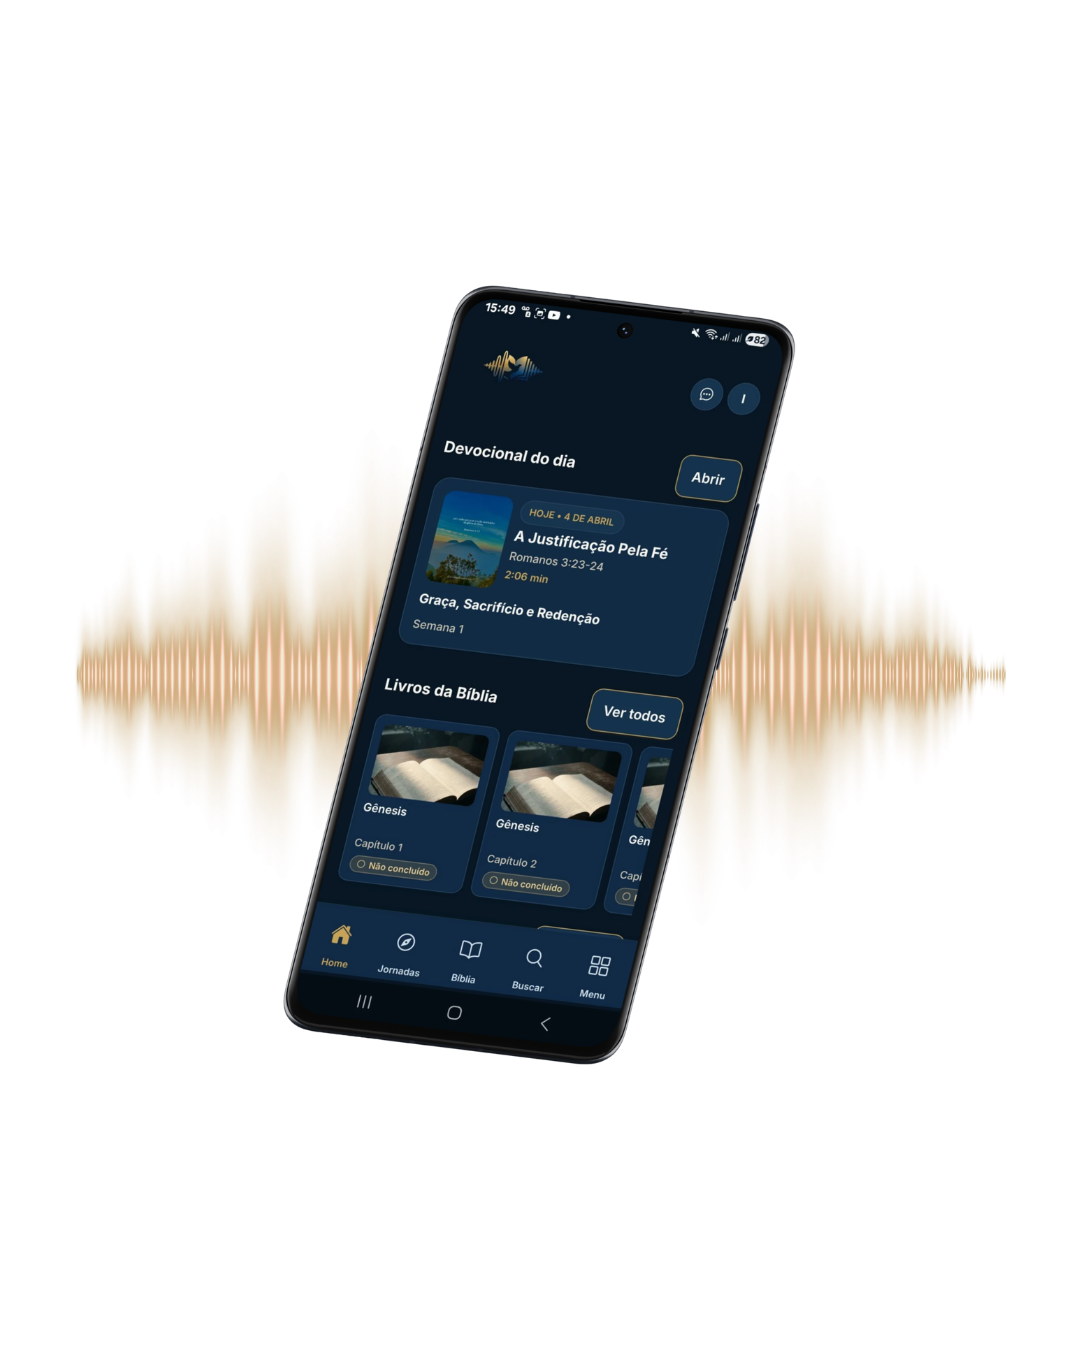
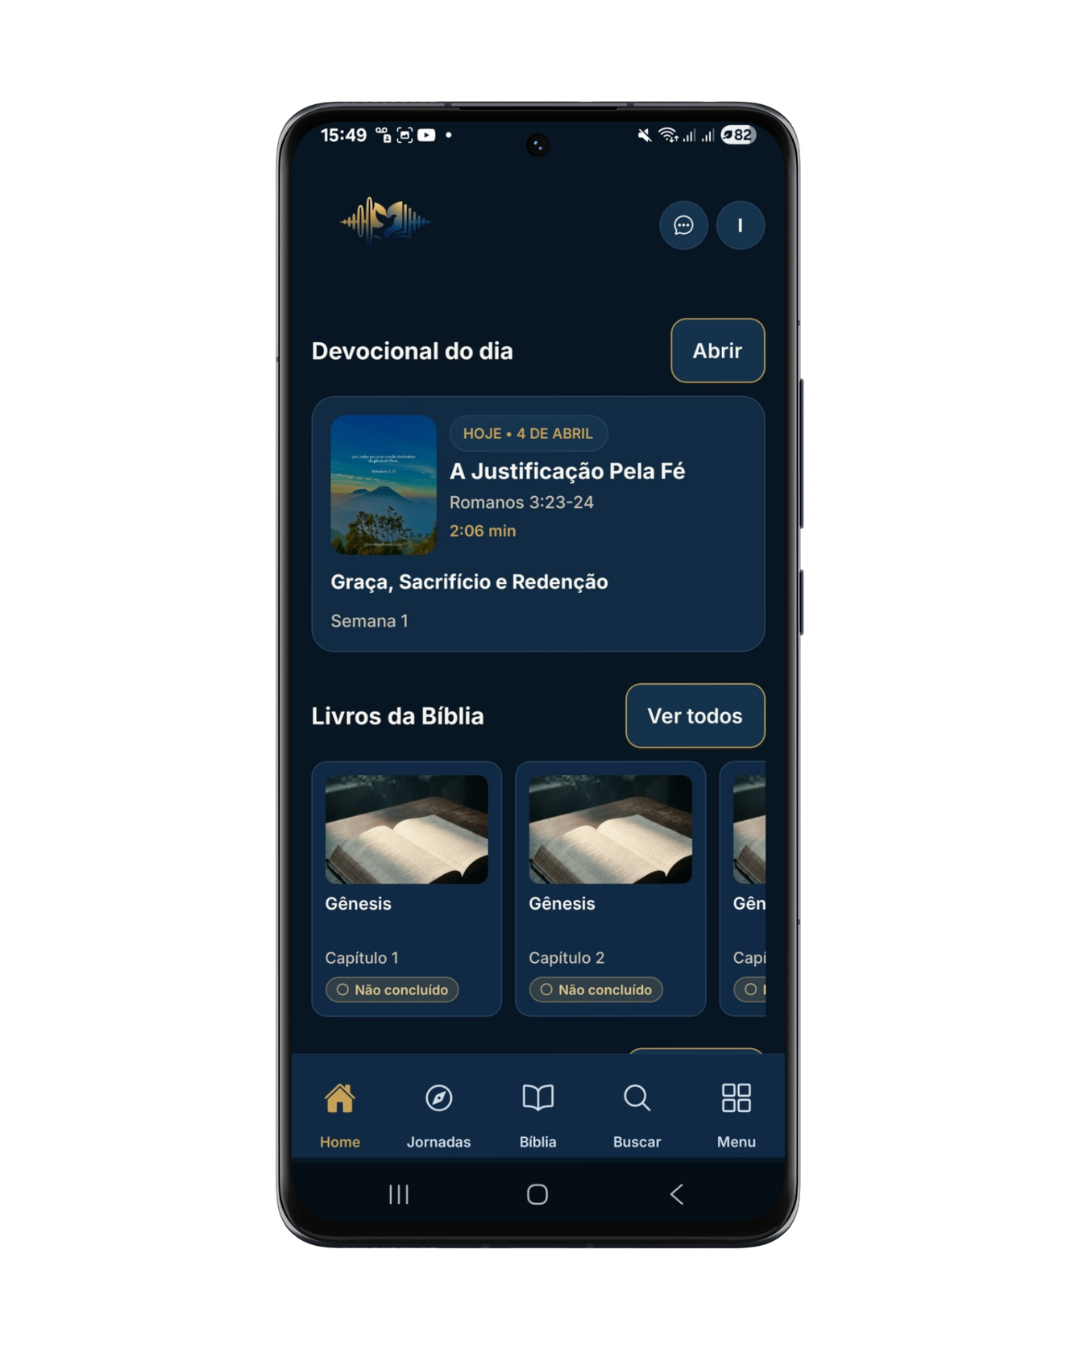
Improve landing page app download CTAs

diff --git a/app/page.tsx b/app/page.tsx
@@ -3,13 +3,17 @@ import Link from "next/link";
 
 import { LandingAnalytics } from "@/components/analytics/landing-analytics";
 import {
+  AppleLogo,
+  ArrowSquareOut,
   BookOpenText,
   CheckCircle2,
+  GooglePlayLogo,
   Headphones,
   MessageCircleHeart,
   HandsPraying,
   NotebookIcon,
   PlayCircle,
+  type LucideIcon,
 } from "@/components/icons";
 
 import { Logo } from "@/components/logo";
@@ -85,6 +89,16 @@ const SOCIAL_LINKS = SITE_SOCIAL_LINKS;
 const DOWNLOAD_SECTION_HREF = "#baixar-app";
 const PLANS_SECTION_HREF = "#planos";
 
+const STORE_BUTTON_ICONS = {
+  google_play: GooglePlayLogo,
+  app_store: AppleLogo,
+} satisfies Record<(typeof STORE_LINKS)[number]["id"], LucideIcon>;
+
+const STORE_BUTTON_ACTIONS = {
+  google_play: "Baixar no",
+  app_store: "Baixar na",
+} satisfies Record<(typeof STORE_LINKS)[number]["id"], string>;
+
 const MONTHLY_PLAN_FEATURES = [
   "Biblioteca dos livros da Bíblia em áudio",
   "Jornadas de personagens bíblicos em áudio",
@@ -127,21 +141,15 @@ export default function HomePage() {
               <nav className="hidden items-center justify-center gap-2 lg:flex">
                 <a
                   href="#funcionalidades"
-                  className="rounded-full px-4 py-2 text-sm font-medium text-muted-foreground transition hover:bg-background/75 hover:text-foreground"
+                  className="inline-flex h-10 items-center justify-center rounded-lg border border-border/60 bg-background/55 px-4 text-sm font-semibold text-foreground shadow-[0_10px_24px_rgba(11,31,53,0.07)] transition hover:-translate-y-0.5 hover:border-highlight/45 hover:bg-background hover:text-highlight focus-visible:outline focus-visible:outline-2 focus-visible:outline-offset-2 focus-visible:outline-highlight"
                 >
                   Funcionalidades
                 </a>
                 <a
                   href="#planos"
-                  className="rounded-full px-4 py-2 text-sm font-medium text-muted-foreground transition hover:bg-background/75 hover:text-foreground"
+                  className="inline-flex h-10 items-center justify-center rounded-lg border border-border/60 bg-background/55 px-4 text-sm font-semibold text-foreground shadow-[0_10px_24px_rgba(11,31,53,0.07)] transition hover:-translate-y-0.5 hover:border-highlight/45 hover:bg-background hover:text-highlight focus-visible:outline focus-visible:outline-2 focus-visible:outline-offset-2 focus-visible:outline-highlight"
                 >
                   Planos
-                </a>
-                <a
-                  href="#baixar-app"
-                  className="rounded-full px-4 py-2 text-sm font-medium text-muted-foreground transition hover:bg-background/75 hover:text-foreground"
-                >
-                  Baixar app
                 </a>
               </nav>
 
@@ -149,7 +157,7 @@ export default function HomePage() {
                 <a
                   href={DOWNLOAD_SECTION_HREF}
                   data-analytics-label="header_download_app"
-                  className="inline-flex h-9 items-center justify-center rounded-full bg-primary px-4 text-xs font-semibold text-primary-foreground transition hover:bg-primary/90 sm:h-10 sm:px-5 sm:text-sm"
+                  className="inline-flex h-9 items-center justify-center rounded-lg bg-primary px-4 text-xs font-semibold text-primary-foreground shadow-[0_12px_26px_rgba(11,31,53,0.16)] transition hover:-translate-y-0.5 hover:bg-primary/90 focus-visible:outline focus-visible:outline-2 focus-visible:outline-offset-2 focus-visible:outline-highlight sm:h-10 sm:px-5 sm:text-sm"
                 >
                   Baixar app
                 </a>
@@ -157,24 +165,18 @@ export default function HomePage() {
               </div>
             </div>
 
-            <nav className="mt-3 grid grid-cols-3 gap-2 lg:hidden">
+            <nav className="mt-3 grid grid-cols-2 gap-2 lg:hidden">
               <a
                 href="#funcionalidades"
-                className="inline-flex h-9 items-center justify-center rounded-full border border-border/60 bg-background/65 px-3 text-[11px] font-medium text-foreground sm:text-xs"
+                className="inline-flex h-10 items-center justify-center rounded-lg border border-border/65 bg-background/70 px-3 text-[11px] font-semibold text-foreground shadow-[0_8px_20px_rgba(11,31,53,0.08)] transition hover:border-highlight/45 hover:bg-background hover:text-highlight focus-visible:outline focus-visible:outline-2 focus-visible:outline-offset-2 focus-visible:outline-highlight sm:text-xs"
               >
                 Funcionalidades
               </a>
               <a
                 href="#planos"
-                className="inline-flex h-9 items-center justify-center rounded-full border border-border/60 bg-background/65 px-3 text-[11px] font-medium text-foreground sm:text-xs"
+                className="inline-flex h-10 items-center justify-center rounded-lg border border-border/65 bg-background/70 px-3 text-[11px] font-semibold text-foreground shadow-[0_8px_20px_rgba(11,31,53,0.08)] transition hover:border-highlight/45 hover:bg-background hover:text-highlight focus-visible:outline focus-visible:outline-2 focus-visible:outline-offset-2 focus-visible:outline-highlight sm:text-xs"
               >
                 Planos
-              </a>
-              <a
-                href="#baixar-app"
-                className="inline-flex h-9 items-center justify-center rounded-full border border-border/60 bg-background/65 px-3 text-[11px] font-medium text-foreground sm:text-xs"
-              >
-                Baixar app
               </a>
             </nav>
           </div>
@@ -314,7 +316,6 @@ export default function HomePage() {
                         alt={feature.imageAlt}
                         fill
                         priority={index === 0}
-                        quality={100}
                         sizes="(min-width: 1280px) 760px, (min-width: 1024px) 62vw, 100vw"
                         className={`object-cover drop-shadow-[0_28px_55px_rgba(0,0,0,0.38)] ${feature.imageClassName}`}
                       />
@@ -421,54 +422,74 @@ export default function HomePage() {
                   Comece pelo aplicativo
                 </h2>
                 <p className="mt-3 max-w-2xl text-sm leading-6 text-muted-foreground md:text-base">
-                  Instale no celular para ouvir a Palavra de Deus no caminho, em casa ou no seu
-                  tempo de devocional.
+                  Escolha a loja do seu celular e instale para ouvir a Palavra de Deus no caminho,
+                  em casa ou no seu tempo de devocional.
                 </p>
               </div>
 
-              <div className="flex flex-wrap gap-3">
-                {STORE_LINKS.map((store) =>
-                  store.available ? (
+              <div className="flex w-full flex-wrap gap-3 lg:w-auto">
+                {STORE_LINKS.map((store) => {
+                  const StoreIcon = STORE_BUTTON_ICONS[store.id];
+                  const storeAction = STORE_BUTTON_ACTIONS[store.id];
+
+                  return store.available ? (
                     <a
                       key={store.label}
                       href={store.href}
                       target="_blank"
                       rel="noreferrer"
+                      aria-label={`${storeAction} ${store.label} para ${store.hint}`}
                       data-analytics-label={`store_download_${store.id}`}
-                      className="inline-flex min-w-[170px] items-center justify-between rounded-2xl border border-border/65 bg-background/70 px-4 py-3 text-left transition hover:border-highlight/40 hover:bg-background"
+                      className="group inline-flex min-h-[78px] w-full min-w-[230px] items-center justify-between gap-4 rounded-lg border border-highlight/45 bg-foreground px-4 py-3 text-left text-background shadow-[0_18px_42px_rgba(11,31,53,0.18)] transition duration-200 hover:-translate-y-0.5 hover:border-highlight hover:bg-foreground/95 hover:shadow-[0_22px_48px_rgba(11,31,53,0.24)] focus-visible:outline focus-visible:outline-2 focus-visible:outline-offset-2 focus-visible:outline-highlight sm:w-auto"
                     >
-                      <span>
-                        <span className="block text-xs uppercase tracking-[0.12em] text-muted-foreground">
-                          {store.hint}
+                      <span className="flex min-w-0 items-center gap-3">
+                        <span className="flex size-11 shrink-0 items-center justify-center rounded-lg bg-background/12 text-background ring-1 ring-background/15">
+                          <StoreIcon className="size-7" weight="fill" />
                         </span>
-                        <span className="block text-sm font-semibold text-foreground">{store.label}</span>
-                        {store.badge ? (
-                          <span className="mt-1 inline-flex rounded-full border border-highlight/35 bg-highlight/10 px-2 py-0.5 text-[10px] font-semibold uppercase tracking-[0.08em] text-highlight">
-                            {store.badge}
+                        <span className="min-w-0">
+                          <span className="block text-[11px] font-semibold uppercase tracking-[0.12em] text-background/75">
+                            {store.hint}
                           </span>
-                        ) : null}
+                          <span className="block text-base font-semibold leading-5 text-background">
+                            {storeAction} {store.label}
+                          </span>
+                          {store.badge ? (
+                            <span className="mt-1 inline-flex rounded-full border border-background/25 bg-background/10 px-2 py-0.5 text-[10px] font-semibold uppercase tracking-[0.08em] text-background">
+                              {store.badge}
+                            </span>
+                          ) : null}
+                        </span>
                       </span>
-                      <PlayCircle className="size-4 text-highlight" />
+                      <ArrowSquareOut className="size-5 shrink-0 text-background/65 transition group-hover:translate-x-0.5 group-hover:text-background" />
                     </a>
                   ) : (
                     <div
                       key={store.label}
                       aria-disabled="true"
-                      className="inline-flex min-w-[170px] items-center justify-between rounded-2xl border border-border/60 bg-background/45 px-4 py-3 text-left opacity-80"
+                      className="inline-flex min-h-[78px] w-full min-w-[230px] cursor-not-allowed items-center justify-between gap-4 rounded-lg border border-border/60 bg-background/45 px-4 py-3 text-left opacity-80 sm:w-auto"
                     >
-                      <span>
-                        <span className="block text-xs uppercase tracking-[0.12em] text-muted-foreground">
-                          {store.hint}
+                      <span className="flex min-w-0 items-center gap-3">
+                        <span className="flex size-11 shrink-0 items-center justify-center rounded-lg bg-muted/55 text-muted-foreground ring-1 ring-border/50">
+                          <StoreIcon className="size-7" weight="fill" />
                         </span>
-                        <span className="block text-sm font-semibold text-foreground">{store.label}</span>
-                        <span className="mt-1 inline-flex rounded-full border border-highlight/35 bg-highlight/10 px-2 py-0.5 text-[10px] font-semibold uppercase tracking-[0.08em] text-highlight">
-                          {store.badge}
+                        <span className="min-w-0">
+                          <span className="block text-[11px] font-semibold uppercase tracking-[0.12em] text-muted-foreground">
+                            {store.hint}
+                          </span>
+                          <span className="block text-base font-semibold leading-5 text-foreground">
+                            {store.label}
+                          </span>
+                          <span className="mt-1 inline-flex rounded-full border border-highlight/35 bg-highlight/10 px-2 py-0.5 text-[10px] font-semibold uppercase tracking-[0.08em] text-highlight">
+                            {store.badge}
+                          </span>
                         </span>
                       </span>
-                      <PlayCircle className="size-4 text-muted-foreground/60" />
+                      <span className="rounded-full border border-border/60 px-2 py-1 text-[10px] font-semibold uppercase tracking-[0.08em] text-muted-foreground">
+                        Em breve
+                      </span>
                     </div>
-                  ),
-                )}
+                  );
+                })}
               </div>
             </div>
           </div>

diff --git a/components/icons.tsx b/components/icons.tsx
@@ -1,6 +1,8 @@
 import {
   ArrowClockwise,
   ArrowCounterClockwise,
+  AppleLogo,
+  ArrowSquareOut,
   BookmarkSimple,
   BookOpenText,
   CaretLeft,
@@ -14,6 +16,7 @@ import {
   CreditCard,
   Crown,
   GoogleLogo,
+  GooglePlayLogo,
   HandsPraying,
   Headphones,
   HighlighterCircle as HighlighterCircleIcon,
@@ -89,9 +92,12 @@ export function PanelLeftClose(props: IconProps) {
 
 export {
   BookOpenText,
+  AppleLogo,
+  ArrowSquareOut,
   CreditCard,
   Crown,
   GoogleLogo,
+  GooglePlayLogo,
   HandsPraying,
   Headphones,
   Image,
